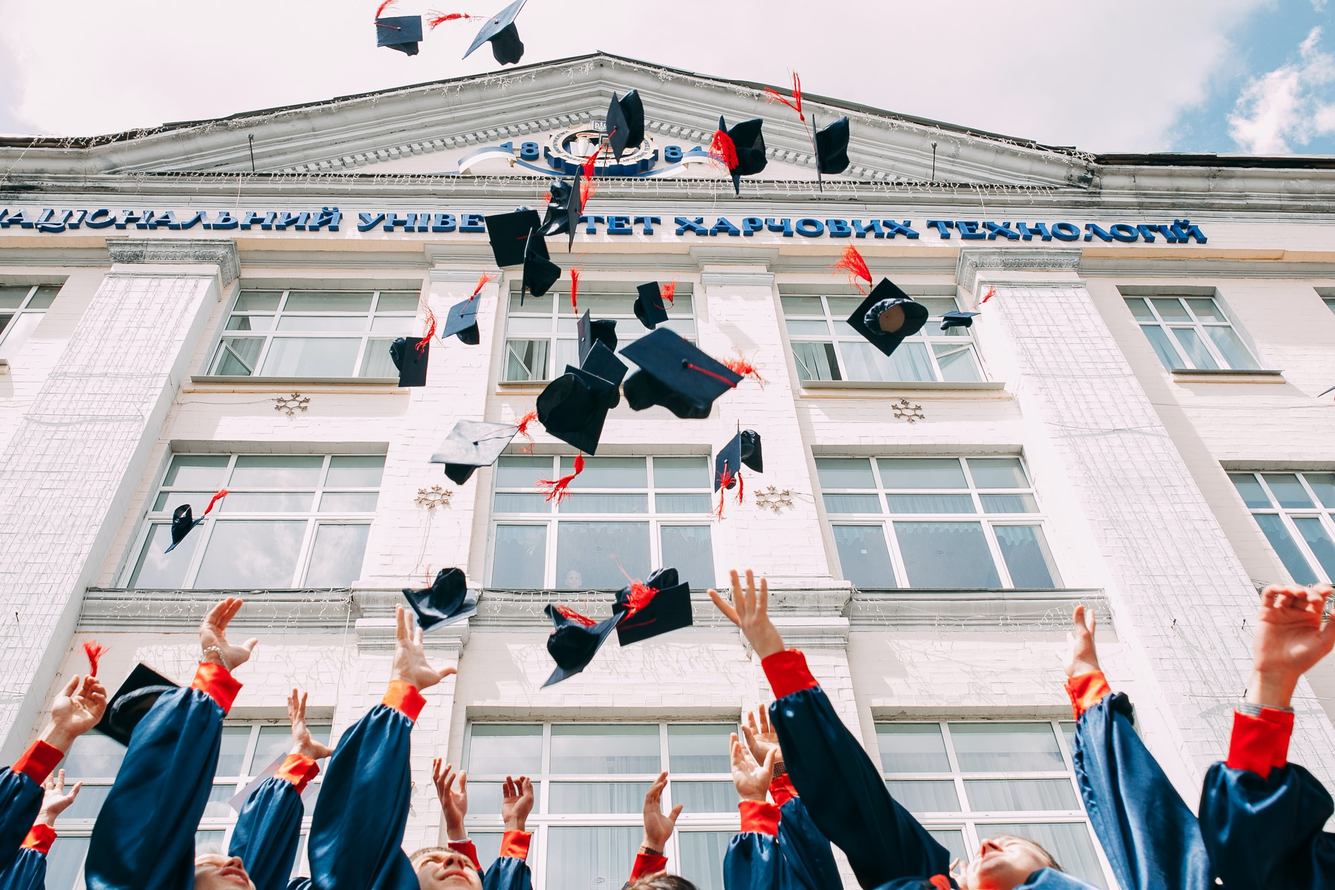
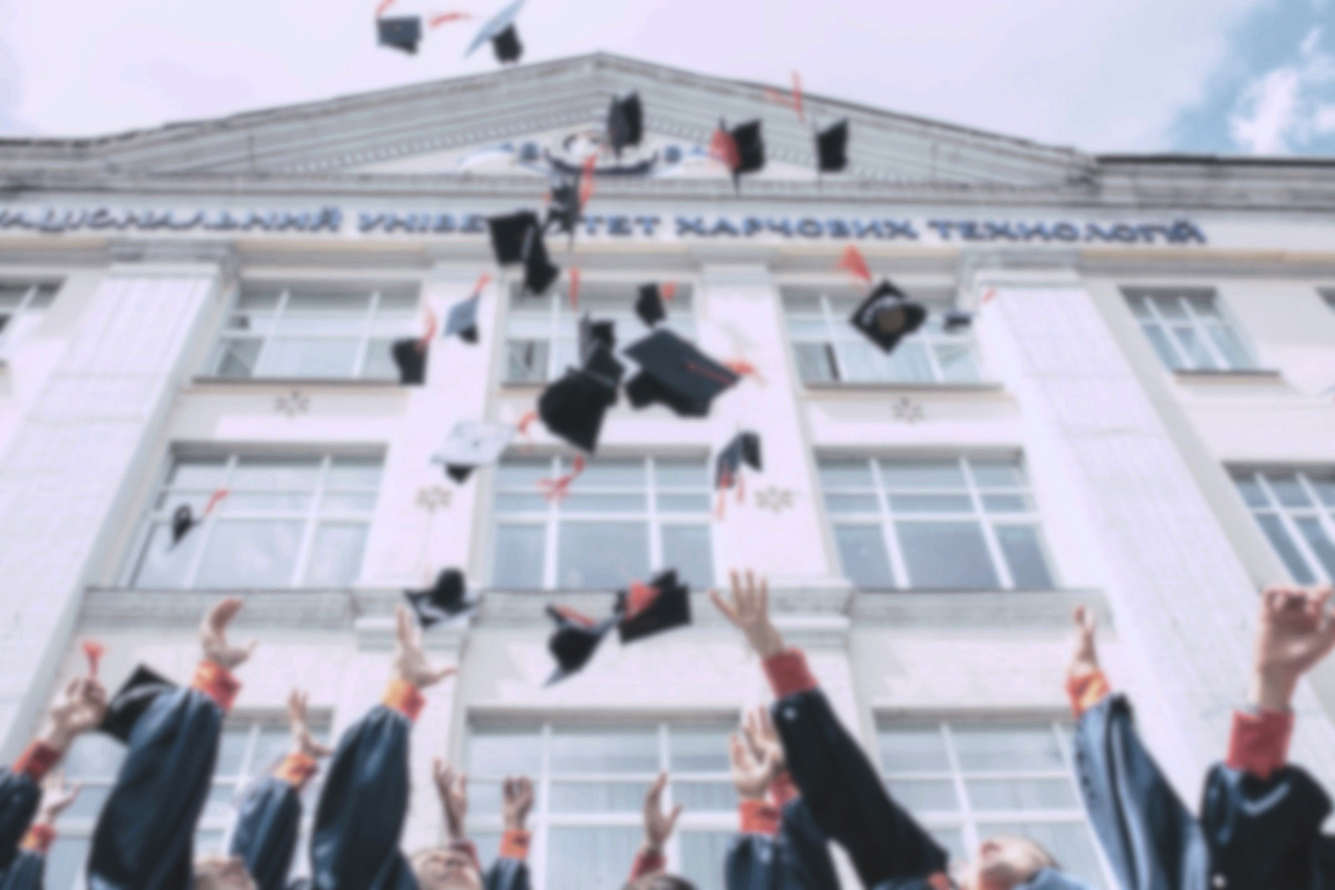
Removed aria controls, Added exception handling for map
Adjusted background image and electron settings

diff --git a/views/index.html b/views/index.html
@@ -49,10 +49,10 @@
             <!-- tab component -->
             <ul class="nav nav-tabs justify-content-center" id="myTab" role="tablist">
                 <li class="nav-item" role="presentation">
-                <button class="nav-link active" id="home-tab" data-bs-toggle="tab" data-bs-target="#student-menu" type="button" role="tab" aria-controls="home" aria-selected="true">Student</button>
+                <button class="nav-link active" id="home-tab" data-bs-toggle="tab" data-bs-target="#student-menu" type="button" role="tab" aria-selected="true">Student</button>
                 </li>
                 <li class="nav-item" role="presentation">
-                <button class="nav-link" id="profile-tab" data-bs-toggle="tab" data-bs-target="#tutor-menu" type="button" role="tab" aria-controls="profile" aria-selected="false">Tutor</button>
+                <button class="nav-link" id="profile-tab" data-bs-toggle="tab" data-bs-target="#tutor-menu" type="button" role="tab" aria-selected="false">Tutor</button>
             </ul>
             <!-- end of tab component -->
 

diff --git a/views/tutor_Home.html b/views/tutor_Home.html
@@ -50,7 +50,7 @@
             <div class="container container-fluid mt-5" style="backdrop-filter: blur(2px);">
                 <!-- page header -->
                 <p class="h1 text-center pt-4">Tutor Home</p>
-                <a href="tutor_StudentMap.html" class="btn d-flex mt-4" id="transBtnBlue" role="button">Find a Student</a>
+                <a href="tutor_StudentMap.html" class="btn d-flex mt-4" id="transBtnBlue" role="button">Find A Student</a>
                 <a href="tutor_Profile.html"class="btn d-flex mt-5" id="transBtnBlue" role="button">Create Profile</a>
                 <!-- a href="#" class="btn d-flex mt-5" id="transBtnBlue" role="button">Chat with Student</a --> <!-- removed as functionality is not part of MVP -->
             </div>

diff --git a/views/tutor_StudentMap.html b/views/tutor_StudentMap.html
@@ -342,7 +342,9 @@
      <script>
  
          //initialize the map
-         function initMap() {
+         try 
+         {
+             function initMap() {
             document.getElementById("loc1").innerHTML = localStorage.getItem("textvalue1");
             document.getElementById("name1").innerHTML = localStorage.getItem("textvalue7");
             document.getElementById("level1").innerHTML = localStorage.getItem("textvalue8");
@@ -858,7 +860,10 @@
                             lastWindowhi=infowindowhi;
                         });
        
-        }
+            }
+    } catch(err) {
+        console.log("Something went wrong while loading the map api..");
+    }
 
  
          //to geocode the address and create marker 

diff --git a/main.js b/main.js
@@ -3,11 +3,11 @@ const { app, BrowserWindow } = require('electron')
 // create a browser windows loading the html file.
 function createWindow() {
     const win = new BrowserWindow({
-        width: 1000, //temp
+        width: 600, //temp
         height: 800, //temp
-		autoHideMenuBar: true // Hide the menubar as a default, use 'alt' to enable.
+        autoHideMenuBar: true // Hide the menubar as a default, use 'alt' to enable.
     })
-    // win.webContents.openDevTools() // enable dev tools within electron.
+    win.webContents.openDevTools() // enable dev tools within electron.
     win.loadFile('views/index.html')
 }
 

diff --git a/views/tutor_Profile.html b/views/tutor_Profile.html
@@ -47,7 +47,7 @@
     <div class="bg">
         <!-- changed id from tutorForm to form -->
         <div class="container border mx-auto shadow-sm mt-5 position-absolute top-50 start-50 translate-middle" style="height: 570px; width: 400px;" id="form">
-            <h3 class="form-header text-center">Create Tutor Profile</h3>
+            <h3 class="form-header text-center">Create & Post A Profile</h3>
             <form action="tutor_Home.html" class="text-center mt-5">
             
             <div class="form-floating mt-5 mb-3">

diff --git a/views/student_TutorMap.html b/views/student_TutorMap.html
@@ -459,7 +459,8 @@
 
     <!-- javascript for map api and geocoding api -->
     <script>
-
+        try 
+        {
         //initialize the map
         function initMap() {
          document.getElementById("loc").innerHTML = localStorage.getItem("textvalue");
@@ -948,6 +949,9 @@
             });
 
         }
+    } catch(err) {
+        console.log("Something went wrong while loading the map api..");
+    }
 
         //to geocode the address and create marker
         function geocodeAddress(geocoder, resultsMap, infowindow) {

diff --git a/views/student_Profile.html b/views/student_Profile.html
@@ -47,7 +47,7 @@
         <!-- form container -->
         <div class="container border mx-auto shadow-sm position-absolute top-50 start-50 translate-middle" style="height: 470px; width: 400px;" id="form">
             <!-- form title -->
-            <h3 class="form-header text-center">Create Student Profile</h3>
+            <h3 class="form-header text-center">Create & Post A Profile</h3>
             <form action="student_Home.html" class="text-center mt-5">
         
                 <div class="form-floating mt-5">
